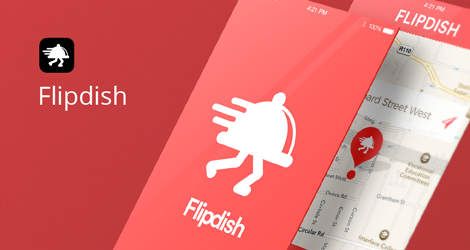
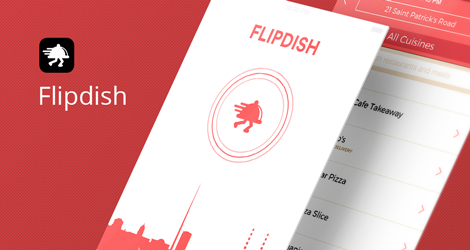
flipdish images

diff --git a/css/case_flipdish.css b/css/case_flipdish.css
@@ -22,15 +22,16 @@
 		background-color: #43352c;
 		background-image: url('../images/cases/flipdish/summary-bg.jpg');
 		background-size: cover;
+		overflow: hidden;
 	}
 
 	.case.flipdish .feature.feature_smart ._deco {
 		position: absolute;
-		right: 18vw;
-		top: 10vw;
+		right: -7vw;
+		bottom: -10vw;
 	}
 		.case.flipdish .feature.feature_smart ._deco img {
-			width: 31.25vw;
+			width: 60vw;
 		}
 
 	.case.flipdish header .case_intro .case_appstore img {
@@ -78,12 +79,12 @@
 	}
 
 		.case.flipdish .feature.feature_smart ._deco {
-			right: -5vw;
-			top: 85vw;
+			right: -15vw;
+			top: 105vw;
 			z-index: 1;
 		}
 			.case.flipdish .feature.feature_smart ._deco img {
-				width: 68vw;
+				width: 110vw;
 			}
 
 }
